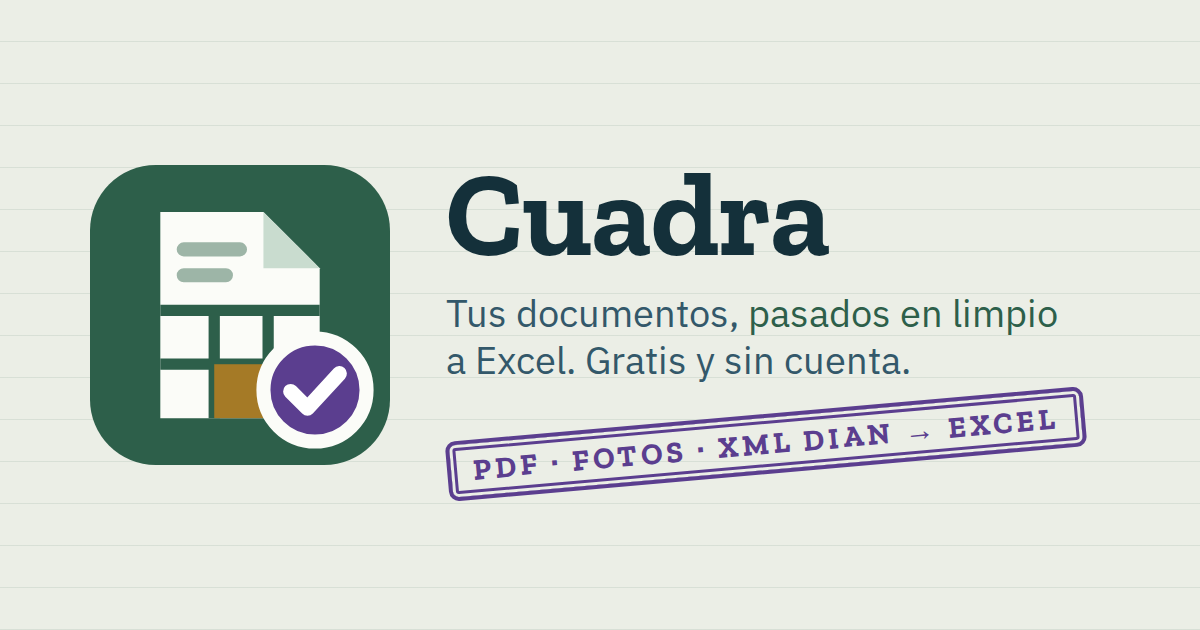
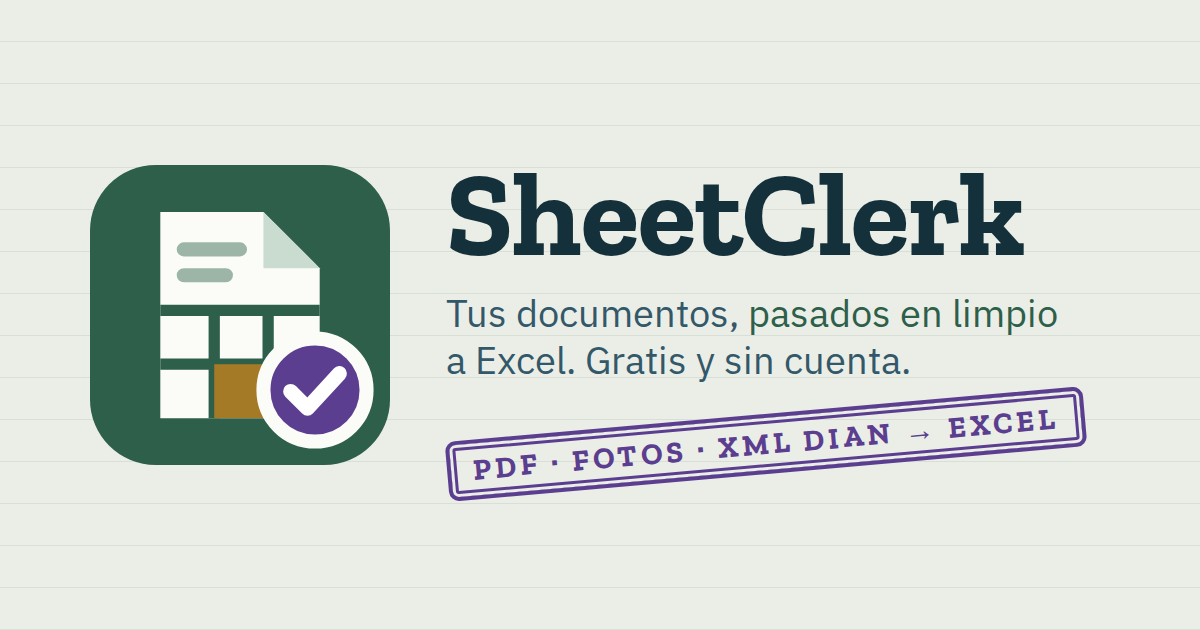
Nuevo nombre: SheetClerk (antes Cuadra, que ya usan otras empresas)
Barra superior, títulos, pie, app instalable, imagen para compartir,
licencia y README. Se borran las cachés antiguas de la app.

Claude-Session: https://claude.ai/code/session_01NtmNasY9zwYFbm4vaK4t79

Changed region(s): [[0.37, 0.2714, 0.8633, 0.4222]]

diff --git a/contadores/index.html b/contadores/index.html
@@ -3,7 +3,7 @@
 <head>
 <meta charset="utf-8">
 <meta name="viewport" content="width=device-width, initial-scale=1">
-<title>Cuadra para contadores · facturas DIAN a Excel</title>
+<title>SheetClerk para contadores · facturas DIAN a Excel</title>
 <meta name="description" content="Para contadores: sube los ZIP o XML de las facturas electrónicas DIAN (y también PDF o fotos) y obtén el libro de compras o ventas, resumen por proveedor, IVA por tarifa y retenciones en Excel. Gratis, sin cuenta y sin subir tus archivos.">
 <meta http-equiv="Content-Security-Policy" content="default-src 'self'; script-src 'self' 'wasm-unsafe-eval'; worker-src 'self' blob:; connect-src 'self' data: blob:; img-src 'self' data: blob:; font-src 'self'; style-src 'self' 'unsafe-inline'; object-src 'none'; base-uri 'self'; form-action 'none'">
 <meta name="referrer" content="no-referrer">
@@ -13,8 +13,8 @@
 <link rel="apple-touch-icon" href="../pdf-a-excel/marca/icono-180.png">
 <link rel="manifest" href="/manifest.webmanifest">
 <meta property="og:type" content="website">
-<meta property="og:site_name" content="Cuadra">
-<meta property="og:title" content="Cuadra para contadores · facturas DIAN a Excel">
+<meta property="og:site_name" content="SheetClerk">
+<meta property="og:title" content="SheetClerk para contadores · facturas DIAN a Excel">
 <meta property="og:description" content="Para contadores: sube los ZIP o XML de las facturas electrónicas DIAN (y también PDF o fotos) y obtén el libro de compras o ventas, resumen por proveedor, IVA por tarifa y retenciones en Excel. Gratis, sin cuenta y sin subir tus archivos.">
 <meta property="og:image" content="https://moav1927.github.io/pdf-a-excel/marca/compartir.png">
 <meta property="og:url" content="https://moav1927.github.io/contadores/">
@@ -36,14 +36,14 @@
   ============================================================
 -->
 <link rel="preload" href="../pdf-a-excel/lib/fuentes/zilla-slab-latin-700-normal.woff2" as="font" type="font/woff2" crossorigin>
-<link rel="stylesheet" href="../pdf-a-excel/estilo.css?v=19">
+<link rel="stylesheet" href="../pdf-a-excel/estilo.css?v=20">
 </head>
 <body data-modo="contadores">
 <svg width="0" height="0" style="position:absolute" aria-hidden="true"><filter id="tinta"><feTurbulence type="fractalNoise" baseFrequency=".85" numOctaves="2" seed="7" result="r"/><feDisplacementMap in="SourceGraphic" in2="r" scale="2.4"/></filter></svg>
 <div class="envoltura">
   <div class="barra">
-    <a class="marca" href="../pdf-a-excel/" aria-label="Cuadra, inicio"><svg width="30" height="30" viewBox="0 0 64 64" aria-hidden="true"> <rect width="64" height="64" rx="14" fill="#2d5f4a"/> <path d="M15 10h22l12 12v32H15z" fill="#fbfcf8"/> <path d="M37 10v12h12z" fill="#c9dccf"/> <path d="M20 18h12M20 23.5h9" stroke="#9db5a7" stroke-width="3" stroke-linecap="round"/> <path d="M15 31h34M15 42.5h34M26.5 31v23M38 31v23" stroke="#2d5f4a" stroke-width="2.4"/> <rect x="26.5" y="42.5" width="11.5" height="11.5" fill="#a57a26"/> <circle cx="48" cy="48" r="11" fill="#5b3e8f" stroke="#fbfcf8" stroke-width="3"/> <path d="M42.8 48.3l3.6 3.6 6.8-7.4" fill="none" stroke="#fff" stroke-width="3.2" stroke-linecap="round" stroke-linejoin="round"/> </svg><span>Cuadra<small>PDF a Excel</small></span></a>
-    <button class="instalar" id="instalar" hidden>Instalar Cuadra</button>
+    <a class="marca" href="../pdf-a-excel/" aria-label="SheetClerk, inicio"><svg width="30" height="30" viewBox="0 0 64 64" aria-hidden="true"> <rect width="64" height="64" rx="14" fill="#2d5f4a"/> <path d="M15 10h22l12 12v32H15z" fill="#fbfcf8"/> <path d="M37 10v12h12z" fill="#c9dccf"/> <path d="M20 18h12M20 23.5h9" stroke="#9db5a7" stroke-width="3" stroke-linecap="round"/> <path d="M15 31h34M15 42.5h34M26.5 31v23M38 31v23" stroke="#2d5f4a" stroke-width="2.4"/> <rect x="26.5" y="42.5" width="11.5" height="11.5" fill="#a57a26"/> <circle cx="48" cy="48" r="11" fill="#5b3e8f" stroke="#fbfcf8" stroke-width="3"/> <path d="M42.8 48.3l3.6 3.6 6.8-7.4" fill="none" stroke="#fff" stroke-width="3.2" stroke-linecap="round" stroke-linejoin="round"/> </svg><span>SheetClerk<small>PDF a Excel</small></span></a>
+    <button class="instalar" id="instalar" hidden>Instalar SheetClerk</button>
     <nav class="secciones" aria-label="Secciones"><a href="../pdf-a-excel/">Documentos en general</a><a href="../contadores/" aria-current="page">Contadores · Facturas DIAN</a></nav>
   </div>
   <header>
@@ -206,12 +206,12 @@
         <p>En la vista previa puedes <b>corregir cualquier dato con doble clic</b>: los totales se recalculan y el cambio sale en el Excel. Reconoce los formatos habituales en varios idiomas («Total:», «Invoice No.», «NIT», «Escala», «Drawn by»…). Las fotos y escaneados se leen con OCR (reconocimiento de texto en imágenes): la primera vez se descargan unos 6 MB que quedan guardados en el navegador.</p>
       </details>
   </aside>
-  <footer class="pie"><span>Cuadra para contadores · hecho en Colombia y gratis para todos.</span><span>Tus archivos se leen en tu equipo y no se guardan en ningún lado.</span></footer>
+  <footer class="pie"><span>SheetClerk para contadores · hecho en Colombia y gratis para todos.</span><span>Tus archivos se leen en tu equipo y no se guardan en ningún lado.</span></footer>
 </div>
 
 <script src="../pdf-a-excel/lib/pdf.min.js"></script>
 <script src="../pdf-a-excel/lib/xlsx.full.min.js"></script>
 <script src="../pdf-a-excel/lib/tesseract.min.js"></script>
-<script src="../pdf-a-excel/motor.js?v=19"></script>
+<script src="../pdf-a-excel/motor.js?v=20"></script>
 </body>
 </html>

diff --git a/pdf-a-excel/index.html b/pdf-a-excel/index.html
@@ -3,7 +3,7 @@
 <head>
 <meta charset="utf-8">
 <meta name="viewport" content="width=device-width, initial-scale=1">
-<title>Cuadra · PDF a Excel: tus documentos pasados en limpio</title>
+<title>SheetClerk · PDF a Excel: tus documentos pasados en limpio</title>
 <meta name="description" content="Extractor de información de PDF gratis: sube facturas, remisiones, planos, informes o fotos y descarga un Excel ordenado con resumen y totales. Sin cuenta y sin subir tus archivos.">
 <meta http-equiv="Content-Security-Policy" content="default-src 'self'; script-src 'self' 'wasm-unsafe-eval'; worker-src 'self' blob:; connect-src 'self' data: blob:; img-src 'self' data: blob:; font-src 'self'; style-src 'self' 'unsafe-inline'; object-src 'none'; base-uri 'self'; form-action 'none'">
 <meta name="referrer" content="no-referrer">
@@ -13,8 +13,8 @@
 <link rel="apple-touch-icon" href="marca/icono-180.png">
 <link rel="manifest" href="/manifest.webmanifest">
 <meta property="og:type" content="website">
-<meta property="og:site_name" content="Cuadra">
-<meta property="og:title" content="Cuadra · PDF a Excel: tus documentos pasados en limpio">
+<meta property="og:site_name" content="SheetClerk">
+<meta property="og:title" content="SheetClerk · PDF a Excel: tus documentos pasados en limpio">
 <meta property="og:description" content="Extractor de información de PDF gratis: sube facturas, remisiones, planos, informes o fotos y descarga un Excel ordenado con resumen y totales. Sin cuenta y sin subir tus archivos.">
 <meta property="og:image" content="https://moav1927.github.io/pdf-a-excel/marca/compartir.png">
 <meta property="og:url" content="https://moav1927.github.io/pdf-a-excel/">
@@ -36,14 +36,14 @@
   ============================================================
 -->
 <link rel="preload" href="lib/fuentes/zilla-slab-latin-700-normal.woff2" as="font" type="font/woff2" crossorigin>
-<link rel="stylesheet" href="estilo.css?v=19">
+<link rel="stylesheet" href="estilo.css?v=20">
 </head>
 <body>
 <svg width="0" height="0" style="position:absolute" aria-hidden="true"><filter id="tinta"><feTurbulence type="fractalNoise" baseFrequency=".85" numOctaves="2" seed="7" result="r"/><feDisplacementMap in="SourceGraphic" in2="r" scale="2.4"/></filter></svg>
 <div class="envoltura">
   <div class="barra">
-    <a class="marca" href="../pdf-a-excel/" aria-label="Cuadra, inicio"><svg width="30" height="30" viewBox="0 0 64 64" aria-hidden="true"> <rect width="64" height="64" rx="14" fill="#2d5f4a"/> <path d="M15 10h22l12 12v32H15z" fill="#fbfcf8"/> <path d="M37 10v12h12z" fill="#c9dccf"/> <path d="M20 18h12M20 23.5h9" stroke="#9db5a7" stroke-width="3" stroke-linecap="round"/> <path d="M15 31h34M15 42.5h34M26.5 31v23M38 31v23" stroke="#2d5f4a" stroke-width="2.4"/> <rect x="26.5" y="42.5" width="11.5" height="11.5" fill="#a57a26"/> <circle cx="48" cy="48" r="11" fill="#5b3e8f" stroke="#fbfcf8" stroke-width="3"/> <path d="M42.8 48.3l3.6 3.6 6.8-7.4" fill="none" stroke="#fff" stroke-width="3.2" stroke-linecap="round" stroke-linejoin="round"/> </svg><span>Cuadra<small>PDF a Excel</small></span></a>
-    <button class="instalar" id="instalar" hidden>Instalar Cuadra</button>
+    <a class="marca" href="../pdf-a-excel/" aria-label="SheetClerk, inicio"><svg width="30" height="30" viewBox="0 0 64 64" aria-hidden="true"> <rect width="64" height="64" rx="14" fill="#2d5f4a"/> <path d="M15 10h22l12 12v32H15z" fill="#fbfcf8"/> <path d="M37 10v12h12z" fill="#c9dccf"/> <path d="M20 18h12M20 23.5h9" stroke="#9db5a7" stroke-width="3" stroke-linecap="round"/> <path d="M15 31h34M15 42.5h34M26.5 31v23M38 31v23" stroke="#2d5f4a" stroke-width="2.4"/> <rect x="26.5" y="42.5" width="11.5" height="11.5" fill="#a57a26"/> <circle cx="48" cy="48" r="11" fill="#5b3e8f" stroke="#fbfcf8" stroke-width="3"/> <path d="M42.8 48.3l3.6 3.6 6.8-7.4" fill="none" stroke="#fff" stroke-width="3.2" stroke-linecap="round" stroke-linejoin="round"/> </svg><span>SheetClerk<small>PDF a Excel</small></span></a>
+    <button class="instalar" id="instalar" hidden>Instalar SheetClerk</button>
     <nav class="secciones" aria-label="Secciones"><a href="../pdf-a-excel/" aria-current="page">Documentos en general</a><a href="../contadores/">Contadores · Facturas DIAN</a></nav>
   </div>
   <header>
@@ -198,12 +198,12 @@
         <p>En la vista previa puedes <b>corregir cualquier dato con doble clic</b>: los totales se recalculan y el cambio sale en el Excel. Reconoce los formatos habituales en varios idiomas («Total:», «Invoice No.», «NIT», «Escala», «Drawn by»…). Las fotos y escaneados se leen con OCR (reconocimiento de texto en imágenes): la primera vez se descargan unos 6 MB que quedan guardados en el navegador.</p>
       </details>
   </aside>
-  <footer class="pie"><span>Cuadra · de PDF a Excel, hecho en Colombia y gratis para todos.</span><span>Tus archivos se leen en tu equipo y no se guardan en ningún lado.</span></footer>
+  <footer class="pie"><span>SheetClerk · de PDF a Excel, hecho en Colombia y gratis para todos.</span><span>Tus archivos se leen en tu equipo y no se guardan en ningún lado.</span></footer>
 </div>
 
 <script src="lib/pdf.min.js"></script>
 <script src="lib/xlsx.full.min.js"></script>
 <script src="lib/tesseract.min.js"></script>
-<script src="motor.js?v=19"></script>
+<script src="motor.js?v=20"></script>
 </body>
 </html>

diff --git a/sw.js b/sw.js
@@ -1,8 +1,8 @@
-// Cuadra: app instalable que funciona sin internet.
+// SheetClerk: app instalable que funciona sin internet.
 // Solo atiende /pdf-a-excel/ y /contadores/; el resto del sitio pasa directo a la red.
-const CACHE = 'cuadra-19';
+const CACHE = 'sheetclerk-20';
 const L = '/pdf-a-excel/lib/';
-const BASICO = ['/pdf-a-excel/', '/contadores/', '/pdf-a-excel/motor.js?v=19', '/pdf-a-excel/estilo.css?v=19',
+const BASICO = ['/pdf-a-excel/', '/contadores/', '/pdf-a-excel/motor.js?v=20', '/pdf-a-excel/estilo.css?v=20',
   L + 'pdf.min.js', L + 'pdf.worker.min.js', L + 'xlsx.full.min.js', L + 'tesseract.min.js', L + 'fflate.min.js', L + 'mammoth.browser.min.js',
   L + 'fuentes/zilla-slab-latin-500-normal.woff2', L + 'fuentes/zilla-slab-latin-700-normal.woff2',
   L + 'fuentes/ibm-plex-sans-latin-400-normal.woff2', L + 'fuentes/ibm-plex-sans-latin-500-normal.woff2', L + 'fuentes/ibm-plex-sans-latin-600-normal.woff2',
@@ -12,7 +12,7 @@ const propio = url => url.origin === location.origin && /^\/(pdf-a-excel|contado
 
 self.addEventListener('install', e => e.waitUntil(caches.open(CACHE).then(c => c.addAll(BASICO)).then(() => self.skipWaiting())));
 self.addEventListener('activate', e => e.waitUntil(
-  caches.keys().then(ks => Promise.all(ks.filter(k => k.startsWith('cuadra-') && k !== CACHE).map(k => caches.delete(k)))).then(() => self.clients.claim())));
+  caches.keys().then(ks => Promise.all(ks.filter(k => (k.startsWith('cuadra-') || k.startsWith('sheetclerk-')) && k !== CACHE).map(k => caches.delete(k)))).then(() => self.clients.claim())));
 
 self.addEventListener('fetch', e => {
   const url = new URL(e.request.url);

diff --git a/index.html b/index.html
@@ -3,8 +3,8 @@
 <head>
 <meta charset="utf-8">
 <meta name="viewport" content="width=device-width, initial-scale=1">
-<title>Cuadra · PDF a Excel</title>
-<meta name="description" content="Cuadra: tus documentos, pasados en limpio a Excel. Gratis, sin cuenta y sin subir tus archivos.">
+<title>SheetClerk · PDF a Excel</title>
+<meta name="description" content="SheetClerk: tus documentos, pasados en limpio a Excel. Gratis, sin cuenta y sin subir tus archivos.">
 <link rel="canonical" href="https://moav1927.github.io/pdf-a-excel/">
 <link rel="icon" href="/pdf-a-excel/marca/icono.svg" type="image/svg+xml">
 <meta http-equiv="refresh" content="0; url=/pdf-a-excel/">
@@ -12,6 +12,6 @@
 <style>body{margin:0;min-height:100vh;display:grid;place-items:center;background:#ebeee6;color:#14303a;font:16px system-ui,sans-serif}a{color:#2d5f4a}</style>
 </head>
 <body>
-<p>Abriendo <a href="/pdf-a-excel/">Cuadra · PDF a Excel</a>…</p>
+<p>Abriendo <a href="/pdf-a-excel/">SheetClerk · PDF a Excel</a>…</p>
 </body>
 </html>

diff --git a/pdf-a-excel/motor.js b/pdf-a-excel/motor.js
@@ -270,7 +270,7 @@
   const marcarPreset = () => { const v = $('#pedido').value.trim(); for (const b of $('#presets').querySelectorAll('button')) b.setAttribute('aria-pressed', String(b.dataset.v === v)); };
   $('#presets').onclick = e => { const b = e.target.closest('button'); if (b) { $('#pedido').value = b.dataset.v; marcarPreset(); } };
   $('#pedido').addEventListener('input', marcarPreset);
-  const CLAVE_PEDIDO = 'cuadra-pedido-' + MODO;
+  const CLAVE_PEDIDO = 'sheetclerk-pedido-' + MODO;
   try { const v = localStorage.getItem(CLAVE_PEDIDO); if (v) { $('#pedido').value = v; marcarPreset(); } } catch { }
 
   // =====================================================================

diff --git a/README.md b/README.md
@@ -1,4 +1,4 @@
-# Cuadra · PDF a Excel
+# SheetClerk · PDF a Excel
 
 Tus documentos, pasados en limpio a Excel: https://moav1927.github.io/pdf-a-excel/
 
